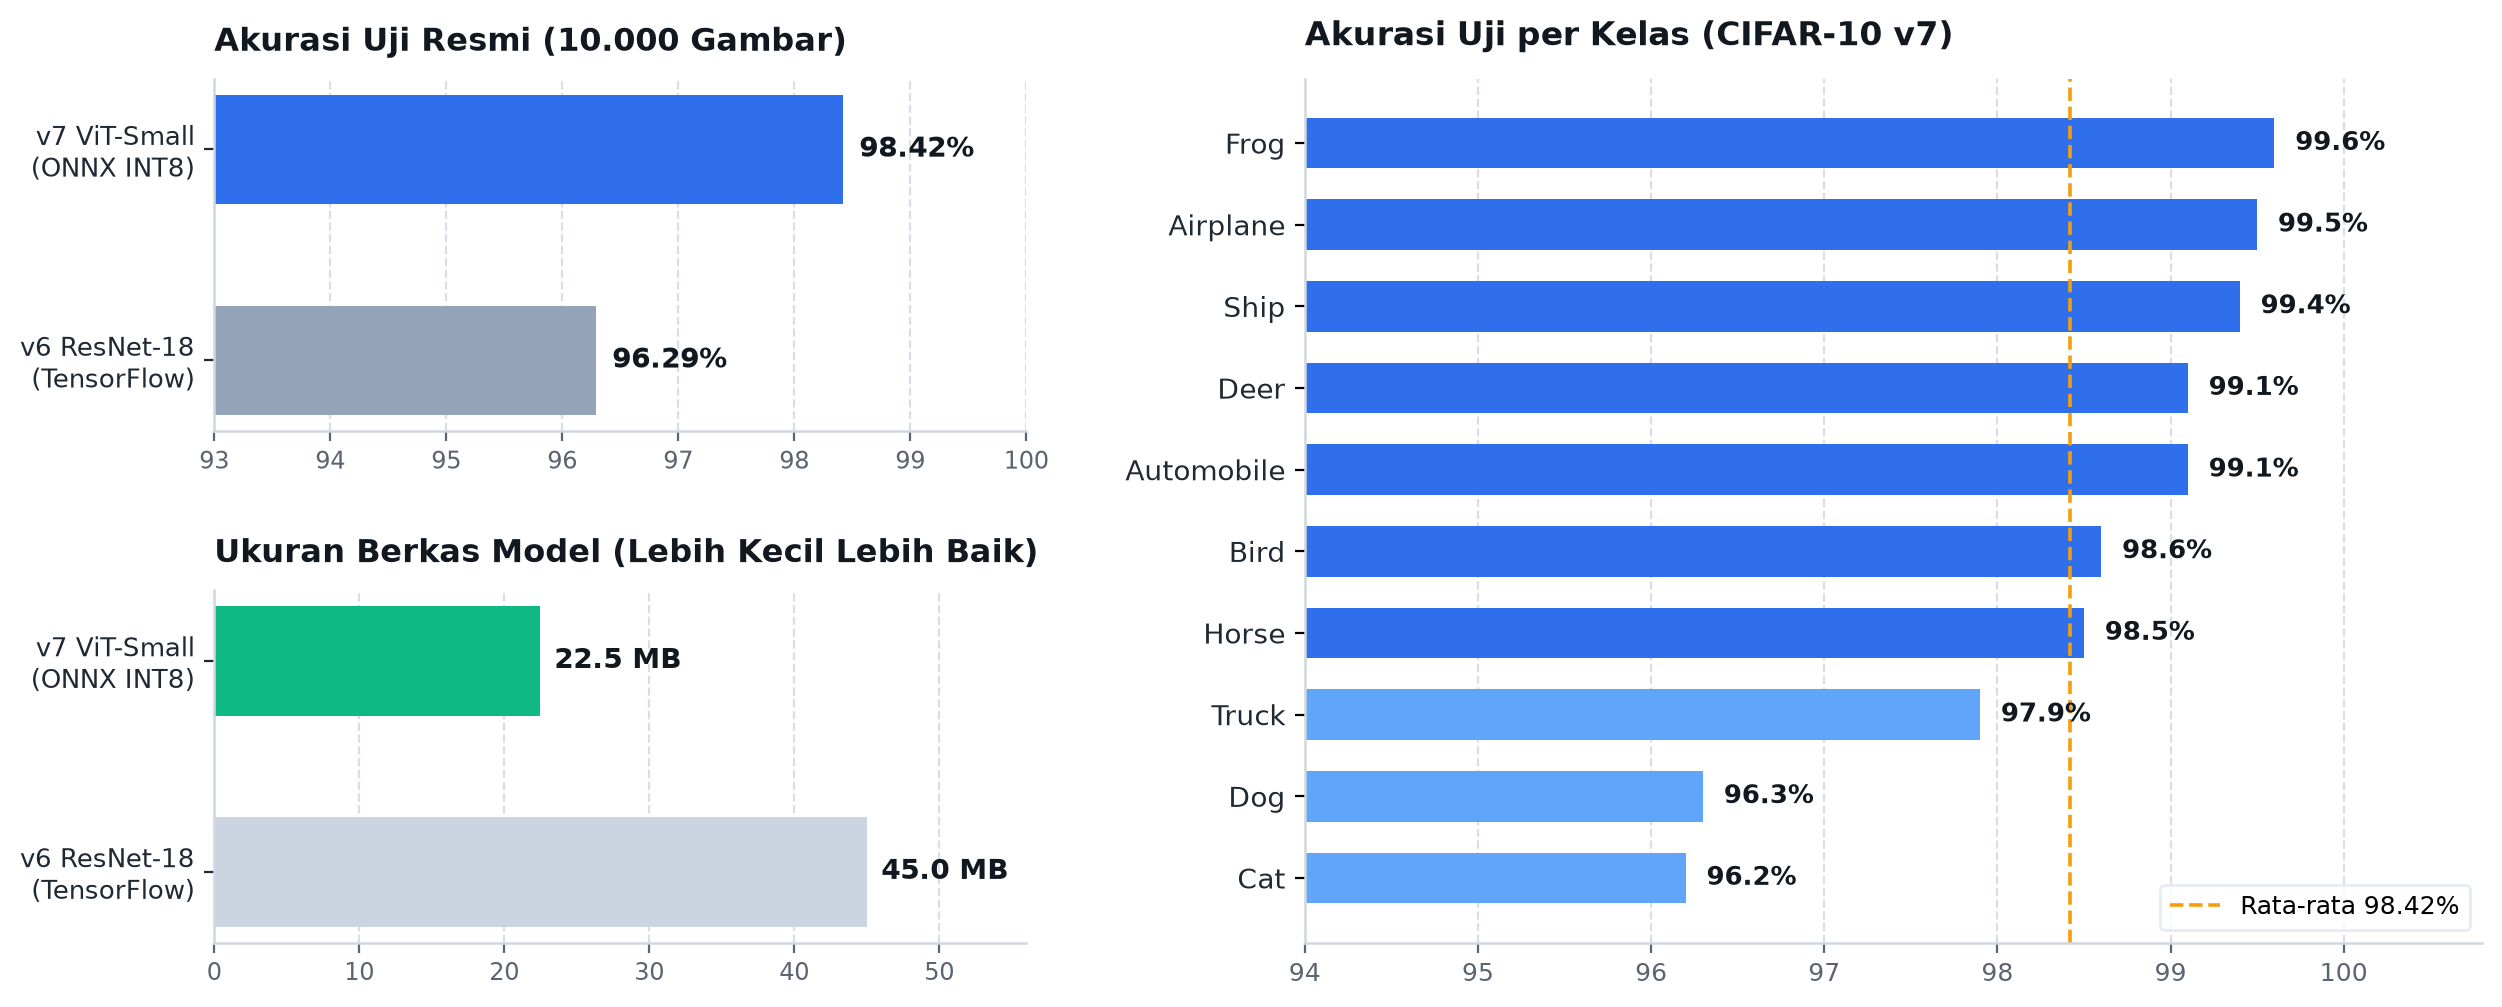
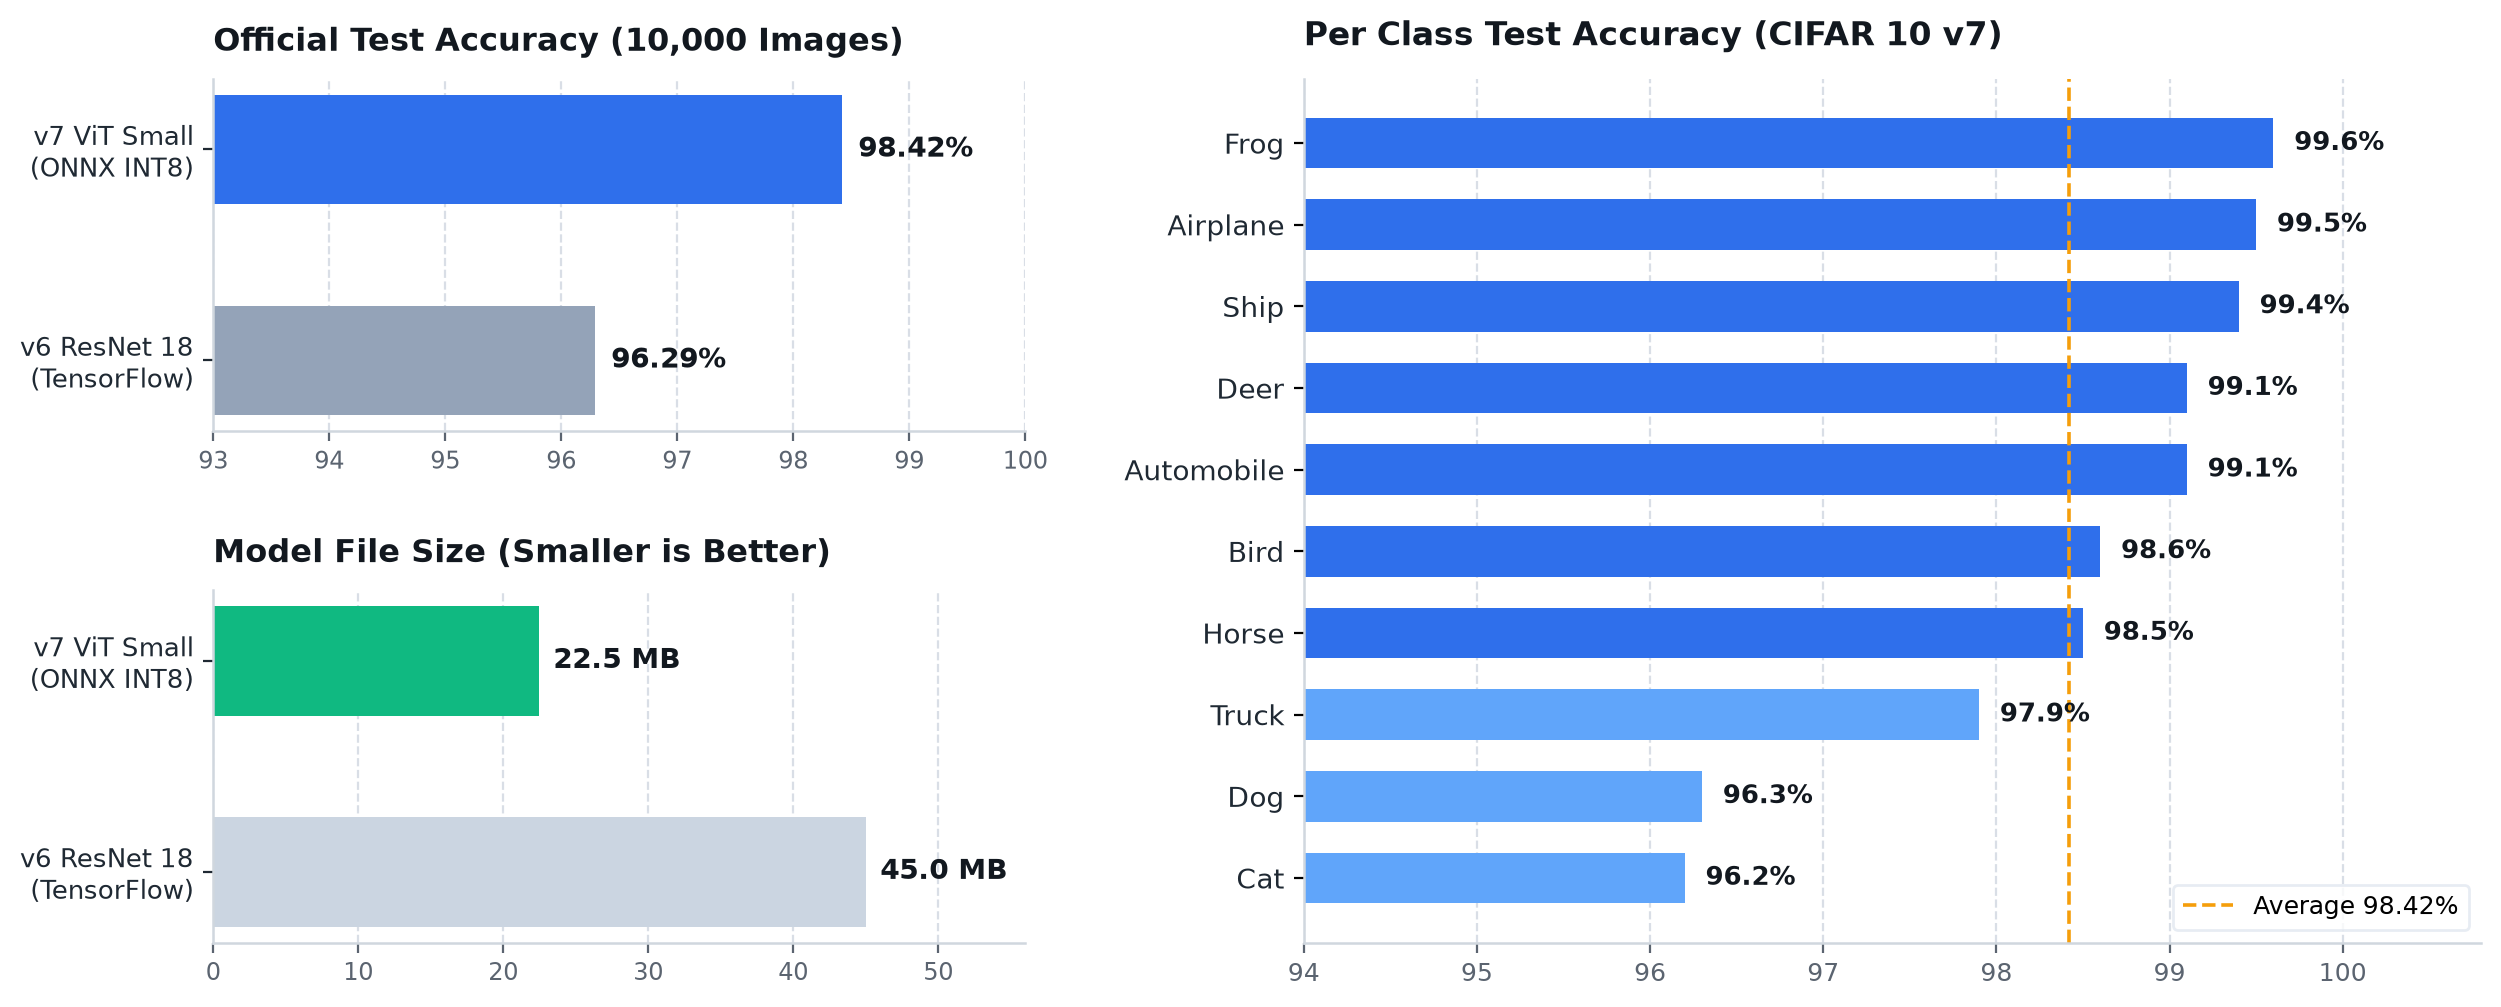
Rewrite README in concise English and localize benchmark chart

diff --git a/README.md b/README.md
@@ -1,109 +1,92 @@
 <div align="center">
 
-# Aplikasi Klasifikasi Gambar
+# Image Classification App
 
-Aplikasi web ringan berbasis Streamlit dan ONNX Runtime untuk klasifikasi gambar dengan akurasi uji **98,42%** pada CIFAR 10 serta **256 label** benda sehari hari.
+Lightweight Streamlit and ONNX Runtime web app achieving **98.42%** CIFAR 10 test accuracy plus **256** general object labels.
 
 ![Python](https://img.shields.io/badge/Python-3.11-3776AB)
 ![Streamlit](https://img.shields.io/badge/Streamlit-1.59-FF4B4B)
 ![ONNX Runtime](https://img.shields.io/badge/Runtime-ONNX%20INT8-005CED)
-![Test Accuracy](https://img.shields.io/badge/Test%20Accuracy-98.42%25-2EA043)
-![Model Size](https://img.shields.io/badge/Model%20Size-22.4%20MB-6F42C1)
+![Test Accuracy](https://img.shields.io/badge/Accuracy-98.42%25-2EA043)
+![Model Size](https://img.shields.io/badge/Model-22.4%20MB-6F42C1)
 ![License](https://img.shields.io/badge/License-MIT-blue)
 
 </div>
 
-## Tampilan Aplikasi
+## Screenshots
 
 <table>
   <tr>
     <td align="center" width="50%">
-      <img src="results/screenshot_cifar10.png" alt="Tampilan Mode CIFAR 10" width="100%" /><br />
-      <sub><b>Mode CIFAR 10</b>: Prediksi 10 kelas dengan ViT Small ONNX (224×224)</sub>
+      <img src="results/screenshot_cifar10.png" alt="CIFAR 10 Mode" width="100%" /><br />
+      <sub><b>CIFAR 10 Mode</b>: ViT Small INT8 ONNX (10 classes)</sub>
     </td>
     <td align="center" width="50%">
-      <img src="results/screenshot_umum.png" alt="Tampilan Mode Umum" width="100%" /><br />
-      <sub><b>Mode Umum</b>: Prediksi 256 label harian dengan CLIP ViT B/32 ONNX</sub>
+      <img src="results/screenshot_umum.png" alt="General Mode" width="100%" /><br />
+      <sub><b>General Mode</b>: CLIP ViT B/32 ONNX (256 labels)</sub>
     </td>
   </tr>
 </table>
 
-## Ringkasan Fitur
+## Performance
 
-* **Mode CIFAR 10**: Mengklasifikasikan 10 kelas (*Airplane, Automobile, Bird, Cat, Deer, Dog, Frog, Horse, Ship, Truck*) dengan akurasi uji resmi **98,42%**.
-* **Mode Umum**: Mengenali 256 benda sehari hari dalam bahasa Indonesia memakai CLIP zero shot beserta deteksi otomatis **Tidak yakin**.
-* **Ringan tanpa TensorFlow**: Kedua mode berjalan di satu mesin **ONNX Runtime**, menghemat RAM dan mempercepat proses deploy.
-
-## Ilustrasi Data & Performa
-
-![Grafik Akurasi dan Ukuran Model](results/accuracy_overview.png)
+![Model Accuracy and Size Overview](results/accuracy_overview.png)
 
 <table>
   <thead>
     <tr>
-      <th align="left">Metrik</th>
-      <th align="center">Versi v6</th>
-      <th align="center">Versi v7 (Sekarang)</th>
+      <th align="left">Metric</th>
+      <th align="center">v6</th>
+      <th align="center">v7 (Current)</th>
     </tr>
   </thead>
   <tbody>
     <tr>
-      <td>Arsitektur</td>
+      <td>Model</td>
       <td align="center">ResNet 18 (32×32)</td>
       <td align="center"><b>ViT Small/16 (224×224)</b></td>
     </tr>
     <tr>
-      <td>Akurasi Uji (10.000 gambar)</td>
-      <td align="center">96,29% (9.629)</td>
-      <td align="center"><b>98,42% (9.842)</b></td>
+      <td>Test Accuracy (10,000 images)</td>
+      <td align="center">96.29%</td>
+      <td align="center"><b>98.42%</b></td>
     </tr>
     <tr>
-      <td>Ukuran Berkas Model</td>
-      <td align="center">45,0 MB (<code>.h5</code>)</td>
-      <td align="center"><b>22,4 MB (<code>.onnx</code> INT8)</b></td>
+      <td>Model Size</td>
+      <td align="center">45.0 MB (<code>.h5</code>)</td>
+      <td align="center"><b>22.4 MB (<code>.onnx</code>)</b></td>
     </tr>
     <tr>
-      <td>Mesin Inferensi</td>
+      <td>Runtime</td>
       <td align="center">TensorFlow + ONNX</td>
       <td align="center"><b>ONNX Runtime</b></td>
-    </tr>
-    <tr>
-      <td>Kecepatan Inferensi</td>
-      <td align="center">10 tampilan (~100 ms)</td>
-      <td align="center"><b>1 tampilan (~88 ms)</b></td>
     </tr>
   </tbody>
 </table>
 
 <details>
-<summary>Lihat Confusion Matrix & Bukti Evaluasi</summary>
+<summary>Confusion Matrix & Verification</summary>
 
 <br />
 
-![Confusion Matrix CIFAR 10](results/confusion_matrix_tta.png)
+![CIFAR 10 Confusion Matrix](results/confusion_matrix_tta.png)
 
-* Metrik JSON lengkap: [`results/metrics.json`](results/metrics.json)
-* Checksum SHA 256: [`results/model_sha256.txt`](results/model_sha256.txt)
-* Ukur ulang secara mandiri: `python scripts/eval_cifar_test.py`
+* Metrics: [`results/metrics.json`](results/metrics.json)
+* Checksum: [`results/model_sha256.txt`](results/model_sha256.txt)
+* Verify: `python scripts/eval_cifar_test.py`
 
 </details>
 
-## Menjalankan Secara Lokal
+## Quickstart
 
 ```bash
-python3.11 -m venv .venv
-source .venv/bin/activate
+python3.11 -m venv .venv && source .venv/bin/activate
 pip install -r requirements.txt
 streamlit run app.py
 ```
 
-## Pengujian
+Run tests with `pip install -r requirements-dev.txt && pytest`.
 
-```bash
-pip install -r requirements-dev.txt
-pytest
-```
+## License
 
-## Lisensi
-
-Proyek ini dirilis di bawah [Lisensi MIT](LICENSE).
+Released under the [MIT License](LICENSE).
